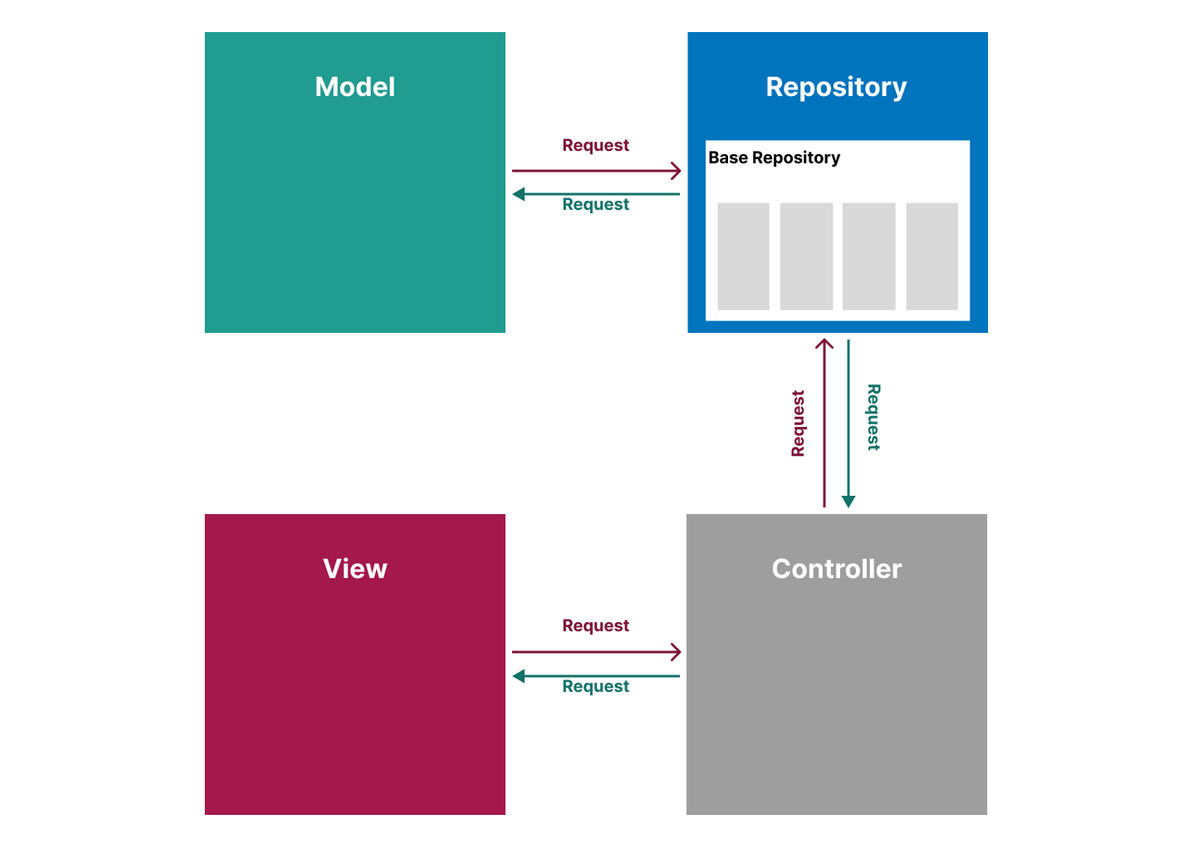
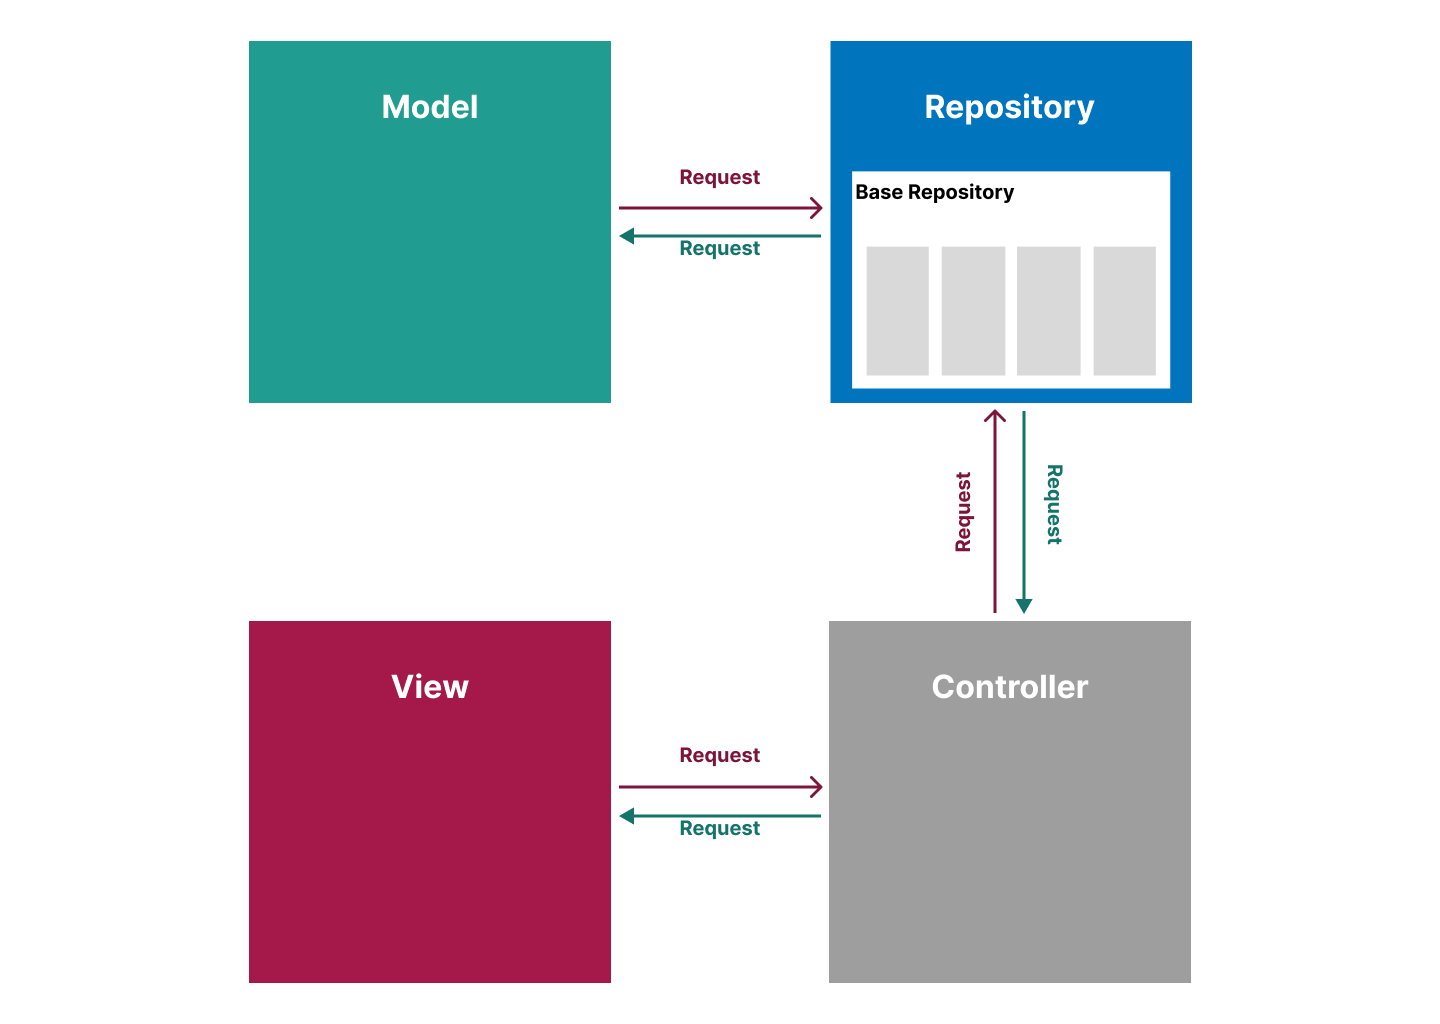
save

diff --git a/docs/Gestion-projets/Analyse-Techniques/Desing-pattern/Desing-pattern.md b/docs/Gestion-projets/Analyse-Techniques/Desing-pattern/Desing-pattern.md
@@ -8,7 +8,7 @@ order:  7
 ## Desing pattern
 
 
-![Desing pattern](/lab_crud/Gestion-projets/Analyse-Techniques/Desing-pattern/images/Desing-pattern.png){:width="90%"}*figure: Desing pattern*
+![Desing pattern](/lab_crud/Gestion-projets/Analyse-Techniques/Desing-pattern/images/Desing-pattern.png){:width="60%"}*figure: Desing pattern*
 
 
 

diff --git a/docs/realisation/MVC/mvc.md b/docs/realisation/MVC/mvc.md
@@ -12,7 +12,7 @@ order:  18
 ## MVC
 
 
-![MVC](./images/mvc.png){:width="90%"}*figure: MVC*
+![MVC](./images/mvc.png){:width="80%"}*figure: MVC*
 
 
 
